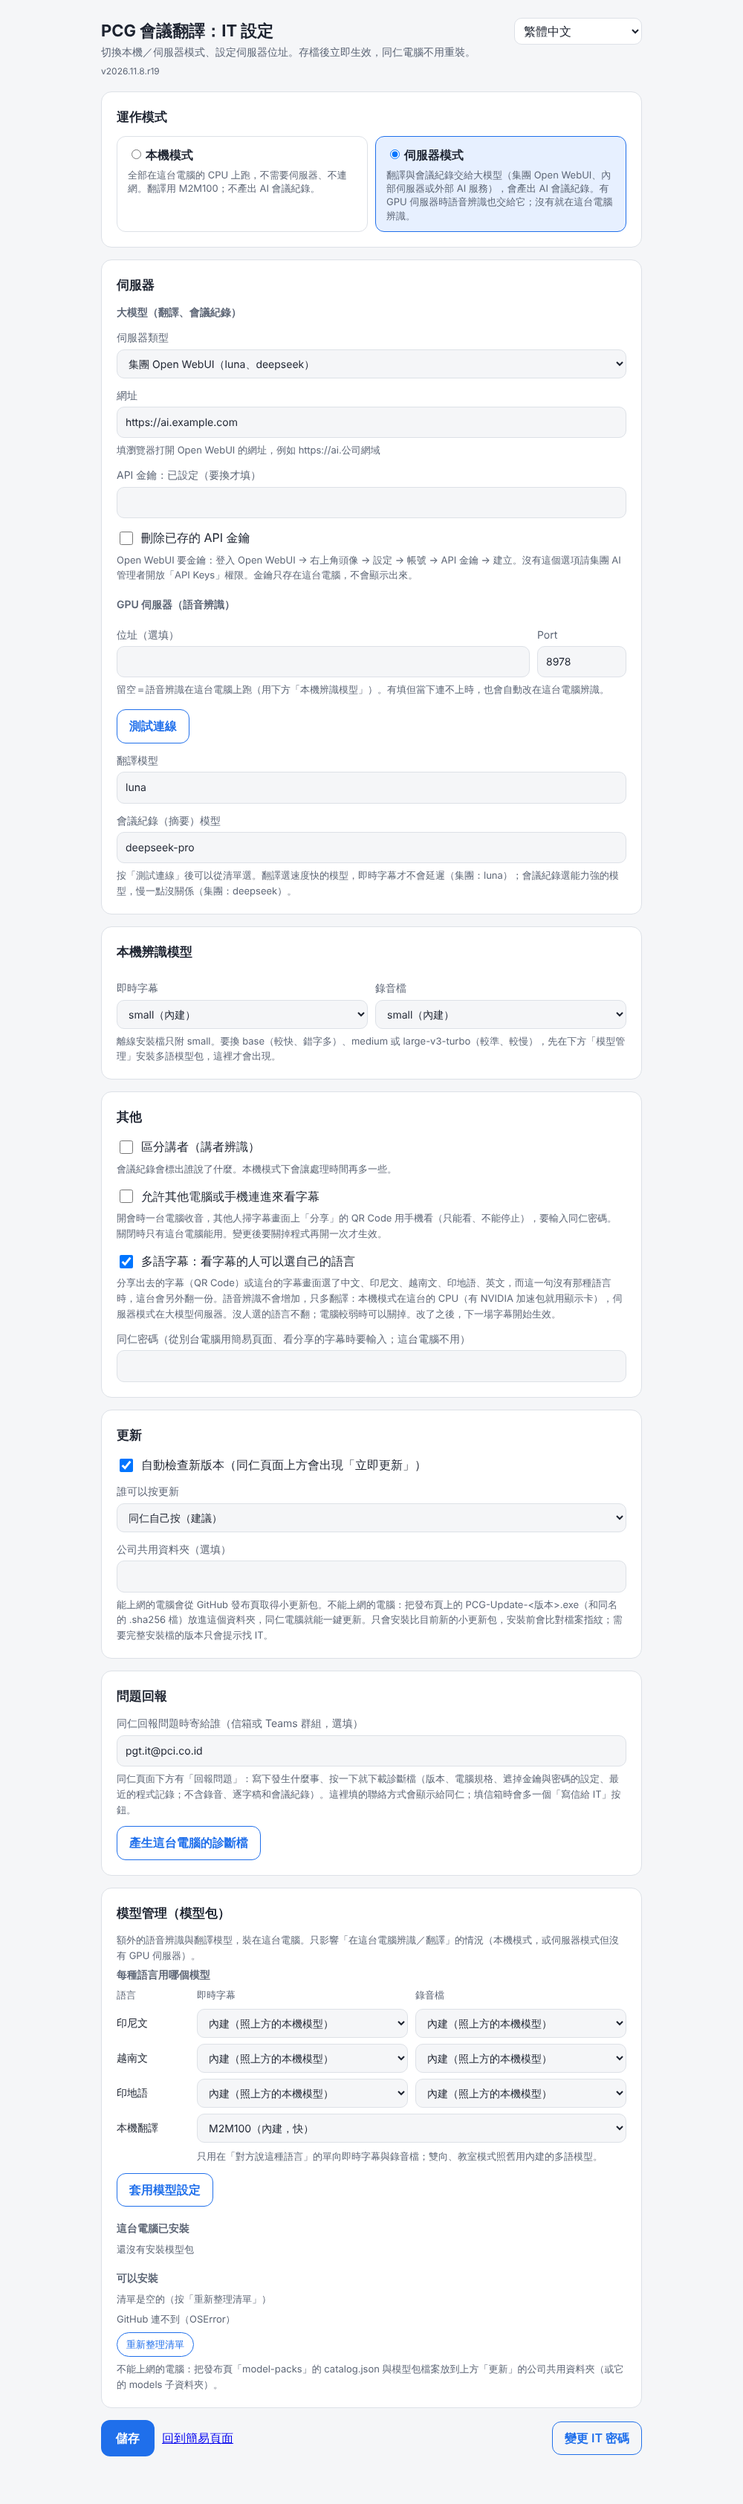
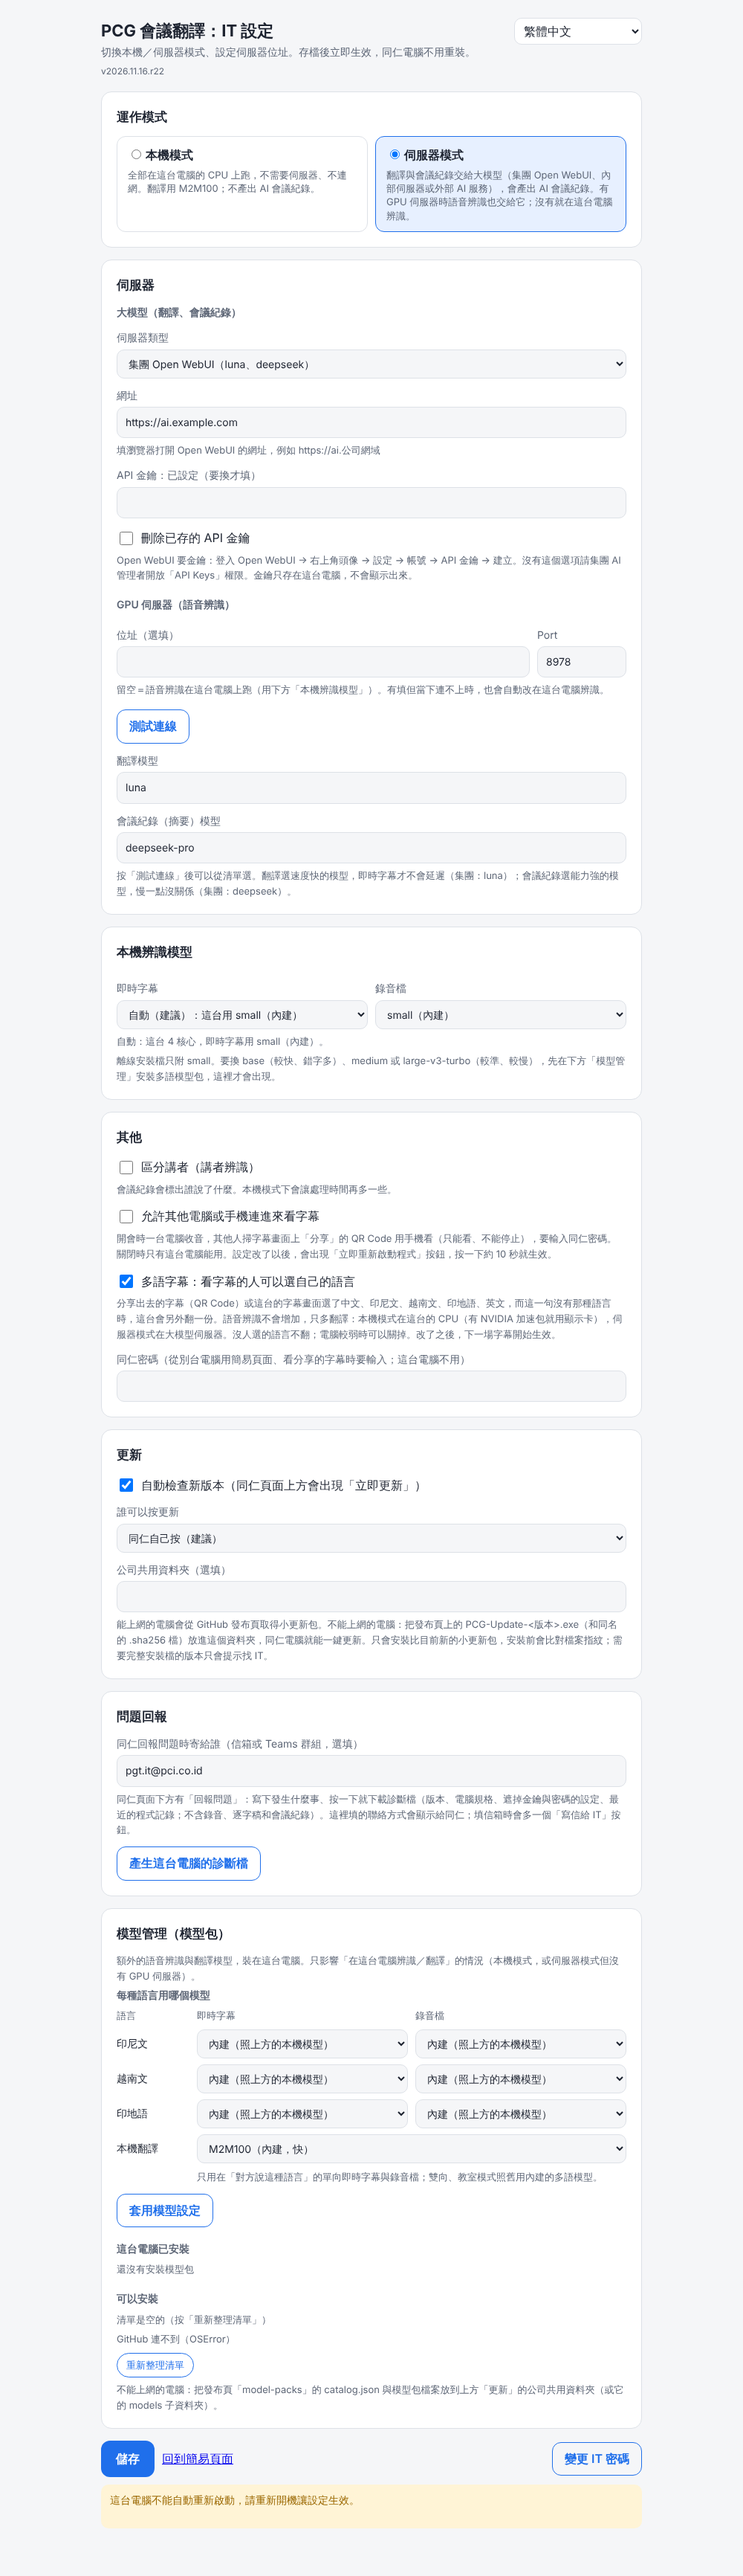
PCG r22：發布檢查清單、說明與截圖更新
- 新增 group/RELEASE-CHECKLIST.md 與 CLAUDE.md：每次打包都照清單更新說明（使用者 2026-11-16 交代）
- whats-new.json 改成 r22；README 版本紀錄新增 r22，功能表補上 r20、r21（自動調回優先順序、依停頓切句、
  模型「自動」、重新啟動按鈕、自動測試項目）
- IT 必讀（4 種語言）：原作者 2.34.1 的「允許別台電腦連線」在集團版以 IT 設定頁為準
- README 截圖換成 r22（頁面版本號、IT 設定頁）

Claude-Session: https://claude.ai/code/session_013JWUDCjzPbtqW6539dEAnK

diff --git a/README.md b/README.md
@@ -30,7 +30,7 @@
 | **外語同仁自己的電腦** | 「對方說中文 → 翻成印尼文／越南文／印地語／英文」，學生或外籍同仁在自己的電腦上看自己語言的字幕 |
 | **教室模式** | 同一間教室、一支麥克風：每一句自動判斷是中文還是對方的語言，互相翻譯（一次一個人講效果最好） |
 | **英文字幕更快** | 對方說英文時改用 Moonshine（英文專用），字幕約 0.3 秒就出來，CPU 也輕很多 |
-| **不卡電腦** | 語音辨識只用約 3/4 的 CPU、優先順序讓給 Teams，開會不會頓；有 NVIDIA 顯示卡的電腦可以裝「GPU 加速包」改用顯示卡 |
+| **不卡電腦** | 語音辨識只用約 3/4 的 CPU、優先順序讓給 Teams，開會不會頓；電腦太忙、字幕跟不上時自動多分一點 CPU 給字幕，追上再讓回去（r20）；講話停頓才切句、每段只辨識一次，比以前省約 37% CPU（r21）；有 NVIDIA 顯示卡的電腦可以裝「GPU 加速包」改用顯示卡 |
 | **三種字幕顯示** | 原文＋翻譯、只看翻譯、只看原文；可以選「我要看的語言」，字幕也能浮在所有視窗最上面 |
 | **分享給手機看** | 一台電腦收音，其他人掃 QR Code 用手機看字幕（只能看、要輸入同仁密碼）；每個人選自己的語言，這一句沒有那種語言時字幕機另外翻一份（多語字幕，r19） |
 | **錄音 → 會議紀錄** | 上傳錄音或會議錄影（mp3、m4a、wav、mp4），產出逐字稿、翻譯，以及中文會議紀錄（決議、待辦、風險） |
@@ -56,15 +56,15 @@
 | **離線單一安裝檔** | 一個 exe 包含程式、Python、語音辨識與翻譯模型，同仁電腦**不用網路、不用系統管理員**；預設裝到 `D:\PCG-live-whisper` |
 | **兩種運作模式** | **本機模式**：全部在同仁電腦的 CPU 上跑（翻譯用 M2M100），不需要任何伺服器。**伺服器模式**：翻譯與 AI 會議紀錄交給大模型，語音辨識可交給 GPU 伺服器（選填；連不上時自動改回本機辨識） |
 | **大模型三種接法** | 集團 Open WebUI（luna、deepseek）、內部伺服器（RTX Spark、Ollama、vLLM）、外部 AI 服務（OpenAI、DeepSeek、Gemini、OpenRouter），按「測試連線」列出模型 |
-| **IT 設定頁** | 網頁上改設定、存檔就生效，不用改設定檔、不用重裝；IT 密碼保護 |
+| **IT 設定頁** | 網頁上改設定、存檔就生效，不用改設定檔、不用重裝（需要重開程式的設定會出現「立即重新啟動程式」按鈕）；IT 密碼保護 |
 | **更新** | 小更新包（約 30 MB，只換程式）；一鍵更新可從 GitHub 或**公司共用資料夾**取得（不能上網的電腦也能更新），安裝前比對檔案指紋（`.sha256`） |
 | **NVIDIA GPU 加速包** | 有 NVIDIA 顯示卡的電腦另外裝（約 670 MB，[發布頁](https://github.com/fairy715/PCG-live-whisper/releases/tag/gpu-cuda12-v1)），語音辨識改用顯示卡；裝完自動檢查能不能用，不能用時照常用 CPU |
-| **CPU 用量** | 辨識＋翻譯不超過實體核心數、約 3/4 的核心，Windows 上用「低於標準」優先順序；IT 可用環境變數調整 |
+| **CPU 用量** | 辨識＋翻譯不超過實體核心數、約 3/4 的核心，Windows 上用「低於標準」優先順序，字幕跟不上時自動調回標準（r20）；本機即時字幕模型「自動」依電腦規格選（雙核心用 base、有顯示卡用 turbo／medium，r21）；IT 可用環境變數調整 |
 | **版本號** | 每個畫面都顯示版本，回報問題時好對照 |
 | **問題回報** | IT 設定頁填「同仁回報問題時寄給誰」，同仁頁面就會顯示並多一個「寫信給 IT」；IT 也能在設定頁產生這台電腦的診斷檔 |
-| **安全** | 只接受這台電腦自己的頁面與區網 IP 連線，瀏覽器裡別的網站打不進來（r18）；資安問題請依 [SECURITY.md](SECURITY.md) 寄給集團 IT |
+| **安全** | 只接受這台電腦自己的頁面與區網 IP 連線，瀏覽器裡別的網站打不進來（r18）；預設只給這台電腦用，IT 開了「允許其他電腦或手機連進來看字幕」才開放，改設定後按「立即重新啟動程式」就生效（r20）；原作者發布的安全公告列在 [SECURITY.md](SECURITY.md)，資安問題請依 SECURITY.md 寄給集團 IT |
 | **安裝進度** | 安裝畫面顯示第幾步、已裝好幾個套件、已經過多久，不會以為當掉 |
-| **自動測試** | 每次發布前在乾淨的 Windows 上實際安裝、自我檢查（套件、模型、翻譯、英文字幕、CPU 限制）、套用小更新包、一鍵更新，全部通過才發布 |
+| **自動測試** | 每次發布前在乾淨的 Windows 上實際安裝、自我檢查（套件、模型、翻譯、英文字幕、CPU 限制與優先順序、多語字幕、依停頓切句）、套用小更新包、一鍵更新，全部通過才發布 |
 | **模型管理（模型包）** | IT 設定頁安裝、更新、移除額外模型，並指定每種語言用哪個：越南文 PhoWhisper、印尼文與印地語加強版 Whisper、MADLAD-400 翻譯（[model-packs 發布頁](https://github.com/fairy715/PCG-live-whisper/releases/tag/model-packs)；不能上網的電腦用公司共用資料夾） |
 | **跟上原作者** | 每週一自動比對原作者 jt-live-whisper 的更新，試合併並跑測試，有新東西就開 Issue 通知；不會自動合併或發布 |
 
@@ -76,6 +76,7 @@
 
 | 版本 | 日期 | 主要更新 |
 |---|---|---|
+| **r22** | 2026-11-16 | 跟上原作者 jt-live-whisper 2.34.1：SECURITY.md 列出原作者已發布的安全公告與修正版本；原作者的 WebUI 改成新安裝預設只限本機（集團版本來就是，照舊由 IT 設定頁決定能不能讓手機連進來）。說明文件補上 r20、r21 的功能，README 截圖換成這一版；新增發布檢查清單（[group/RELEASE-CHECKLIST.md](group/RELEASE-CHECKLIST.md)） |
 | **r21** | 2026-11-13 | 即時字幕依講話停頓切句（Silero VAD）、每段只辨識一次，翻譯等一句講完才送：實測辨識 CPU 少 37%，字幕是整句（參考 tinglongWu，MIT）；Whisper 卡在重複迴圈時換溫度重新辨識、重複只留一份；IT 設定頁「本機即時字幕模型」新增「自動」（新預設：雙核心用 base 模型包、有 GPU 加速包用 turbo／medium）；修正使用者資料夾是短檔名的電腦第一次安裝失敗（An object at the specified path … does not exist）|
 | **r20** | 2026-11-11 | 開著 Teams 開會時字幕不再停住：辨識跟不上時自動調回標準優先順序、追上再讓回去（同仁實測 i3 雙核筆電要關掉 Teams 字幕才出來）；雙核四緒的筆電辨識改用 2 個執行緒。IT 開啟「允許其他電腦或手機連進來看字幕」後不用再去工作管理員關 python.exe：IT 設定頁、字幕畫面的分享都有「重新啟動程式」按鈕，會議室字幕機按開始時自動先重開 |
 | **r19** | 2026-11-08 | 場合多了「會議室字幕機，大家用手機看」：一支麥克風、開始後直接顯示 QR Code，IT 沒開分享會先提醒，也可以選「大家都說中文」。多語字幕：分享出去的字幕每個人選自己的語言（中文、印尼文、越南文、印地語、英文），這一句沒有那種語言時字幕機另外翻一份；語音辨識不增加、沒人選的語言不翻，本機翻譯有 GPU 加速包就用顯示卡；IT 設定頁可以關掉。IT 必讀新增「會議室字幕機」，使用情境新增「多國同仁會議」。新版本說明視窗：之後有新版本時，打開頁面會跳出視窗列出新增功能，可選「立即更新」或「下次再說」（從 r19 再往後更新時才看得到） |

diff --git a/group/RELEASE-CHECKLIST.md b/group/RELEASE-CHECKLIST.md
@@ -1,0 +1,30 @@
+# 發布檢查清單（每次打包 rN 都要做）
+
+使用者 2026-11-16 交代：**每次打包，說明該改的就要改**。打包前照這份清單走一遍，沒做完不要觸發 release.yml。
+
+## 1. 先確認要發布的內容
+- `git log v<上一版>..origin/main`：列出這次包含的每一項變更（含原作者合併）
+- 等推上 main 的那次「Windows 安裝程式」CI 通過再打包（推新 commit 會取消正在跑的 CI）
+
+## 2. 說明文件（該改的都要改）
+| 檔案 | 要做的事 |
+|---|---|
+| `group/whats-new.json` | `release` 改成這次的 `rN`；zh／en／id／vi／hi 各 1～5 點，一點一句、240 字以內（發布流程只在 release 相符時才附上） |
+| `README.md` 版本紀錄 | 新增一列 `| **rN** | 日期 | 主要更新 |` |
+| `README.md` 功能表 | 「給同仁」「給 IT」裡跟這次變更有關的列要一起改（例如 CPU、安全、自動測試） |
+| `README.md` 截圖 | 畫面有變（含頁面最下方的版本號）就用這一版重拍 `group/docs/images/` 的截圖 |
+| IT 必讀（4 種語言） | `group/INSTALL.md`、`group/IT-GUIDE-en.md`、`-id.md`、`-vi.md`：設定、環境變數、行為改變 |
+| 使用情境（4 種語言） | `group/使用情境.md`、`group/USE-CASES-en.md`、`-id.md`、`-vi.md`：同仁操作方式有變時 |
+| 安裝說明（4 種語言） | `group/安裝說明.md`、`group/INSTALL-GUIDE-*.md`：安裝或更新步驟有變時 |
+| `SECURITY.md` | 跟安全有關的變更、原作者新的安全公告 |
+| 廣告影片 | `group/docs/promo/`：同仁頁面的畫面有變時重拍 `ui-*.png` 並重新產生影片（先逐像素比對，沒變就不用） |
+
+## 3. 檢查
+- `python3 -m unittest discover -s group/tests`
+- `node group/tests/check_i18n.js`
+- `python3 group/windows/whats_new_prep.py <版本> <輸出>`：確認新功能說明會被附上
+
+## 4. 打包與驗證
+- 觸發 `release.yml`（`models=small`），版本號是「日期.r＋第幾次執行」，要等於 whats-new.json 的 rN
+- 發布後確認：發布頁有完整安裝檔、小更新包、`.sha256`、`whats-new.json`；記錄裡自我檢查全部通過、小更新包與共用資料夾一鍵更新「全部完成」
+- 告訴使用者：這版內容、CI 驗證到哪裡、哪些要在實機測

diff --git a/group/IT-GUIDE-vi.md b/group/IT-GUIDE-vi.md
@@ -275,6 +275,7 @@ Bộ cài chính chỉ có mô hình small: chạy được trên laptop thườ
 3. Ở "**Local recognition models**", chọn large-v3-turbo cho "**Live subtitles**", rồi bấm "**Save**".
 4. (Tùy chọn) Gói ngôn ngữ (medium) cho tiếng Indonesia, Việt, Hindi: chọn ở "**Model for each language**", rồi bấm "**Apply model settings**". Chỉ dùng cho "tôi chỉ đọc phụ đề".
 5. Đánh dấu "**Allow other computers and phones to view subtitles**", đặt "**Staff password**", lưu, rồi bấm "**Restart the program now**" xuất hiện trên trang (khoảng 10 giây, từ r20; không cần kết thúc python.exe trong Task Manager). Nếu nhân viên bấm bắt đầu cảnh "máy phụ đề phòng họp" khi chương trình chưa khởi động lại, chương trình sẽ tự khởi động lại trước
+   - Tác giả gốc đã thêm "Allow other computers to connect" trong "Security settings" của WebUI nâng cao (`/`) ở bản 2.34.1: khi mở bản dùng cho tập đoàn từ lối tắt trên màn hình, **tùy chọn ở trang cài đặt IT phía trên là tùy chọn quyết định**; không cần để ý ô đánh dấu trong WebUI nâng cao (r22)
 6. Cho phép kết nối đến trong Windows Firewall (cần quyền quản trị: mở PowerShell bằng quyền quản trị):
    ```powershell
    New-NetFirewallRule -DisplayName "PCG Meeting Translator" -Direction Inbound -Protocol TCP -LocalPort 19781 -RemoteAddress LocalSubnet -Action Allow -Profile Domain,Private

diff --git a/group/IT-GUIDE-id.md b/group/IT-GUIDE-id.md
@@ -275,6 +275,7 @@ Penginstal utama hanya berisi model small: berjalan di laptop biasa, tetapi baha
 3. Di "Model pengenalan lokal", pilih large-v3-turbo untuk "Subtitle langsung", lalu klik "Simpan".
 4. (Opsional) Paket bahasa (medium) untuk Indonesia, Vietnam, dan Hindi: pilih di "Model untuk setiap bahasa", lalu klik "Terapkan pengaturan model". Hanya dipakai untuk "saya hanya membaca subtitle".
 5. Centang "Izinkan komputer dan ponsel lain menonton subtitle", isi "Kata sandi karyawan", simpan, lalu tekan "**Mulai ulang program sekarang**" yang muncul di halaman (sekitar 10 detik, mulai r20; tidak perlu mengakhiri python.exe di Task Manager). Jika staf memulai skenario "komputer subtitle ruang rapat" sebelum program dimulai ulang, program akan memulai ulang sendiri dulu
+   - Penulis asli menambahkan "Allow other computers to connect" di "Security settings" WebUI lanjutan (`/`) pada 2.34.1: saat edisi grup dibuka dari pintasan desktop, **yang menentukan adalah opsi di halaman Pengaturan IT di atas**; abaikan kotak centang di WebUI lanjutan (r22)
 6. Izinkan koneksi masuk di Windows Firewall (perlu administrator: buka PowerShell sebagai administrator):
    ```powershell
    New-NetFirewallRule -DisplayName "PCG Meeting Translator" -Direction Inbound -Protocol TCP -LocalPort 19781 -RemoteAddress LocalSubnet -Action Allow -Profile Domain,Private

diff --git a/group/IT-GUIDE-en.md b/group/IT-GUIDE-en.md
@@ -273,6 +273,7 @@ The main installer only has the small model: it runs on ordinary laptops, but In
 3. Under "Local recognition models", choose large-v3-turbo for "Live subtitles" and click "Save".
 4. (Optional) Language packs (medium) for Indonesian, Vietnamese and Hindi: choose them in "Model for each language" and click "Apply model settings". They are used only for "I only read subtitles".
 5. Tick "Allow other computers and phones to view subtitles", set a "Staff password", save, then press "**Restart the program now**" that appears on the page (about 10 seconds, from r20; no need to end python.exe in Task Manager). If staff start the "meeting room subtitle computer" scene before the program has restarted, it restarts by itself first
+   - The original author added "Allow other computers to connect" under "Security settings" in the advanced WebUI (`/`) in 2.34.1: when the group edition is opened from the desktop shortcut, **the IT settings page option above decides**; ignore the advanced WebUI checkbox (r22)
 6. Allow incoming connections in Windows Firewall (needs an administrator: open PowerShell as administrator):
    ```powershell
    New-NetFirewallRule -DisplayName "PCG Meeting Translator" -Direction Inbound -Protocol TCP -LocalPort 19781 -RemoteAddress LocalSubnet -Action Allow -Profile Domain,Private

diff --git a/CLAUDE.md b/CLAUDE.md
@@ -1,0 +1,7 @@
+# 給 Claude 的固定規則（PCG 會議翻譯）
+
+- 一律用繁體中文回覆使用者。
+- **打包（發布 rN）前一定照 [group/RELEASE-CHECKLIST.md](group/RELEASE-CHECKLIST.md) 走一遍：說明該改的就要改**（使用者 2026-11-16 交代）。
+- 沒有使用者明確說要打包，不要觸發 release.yml。
+- 不要修改 `group/windows/build_bundle.py` 與 `group/windows/requirements-cpu.txt`（改了已安裝的電腦就不能用小更新包）。
+- 原作者 jt-live-whisper 的程式盡量不動；集團版的修改集中在 `group/`，必要時在原檔加最小的掛鉤並註明「集團版」。
